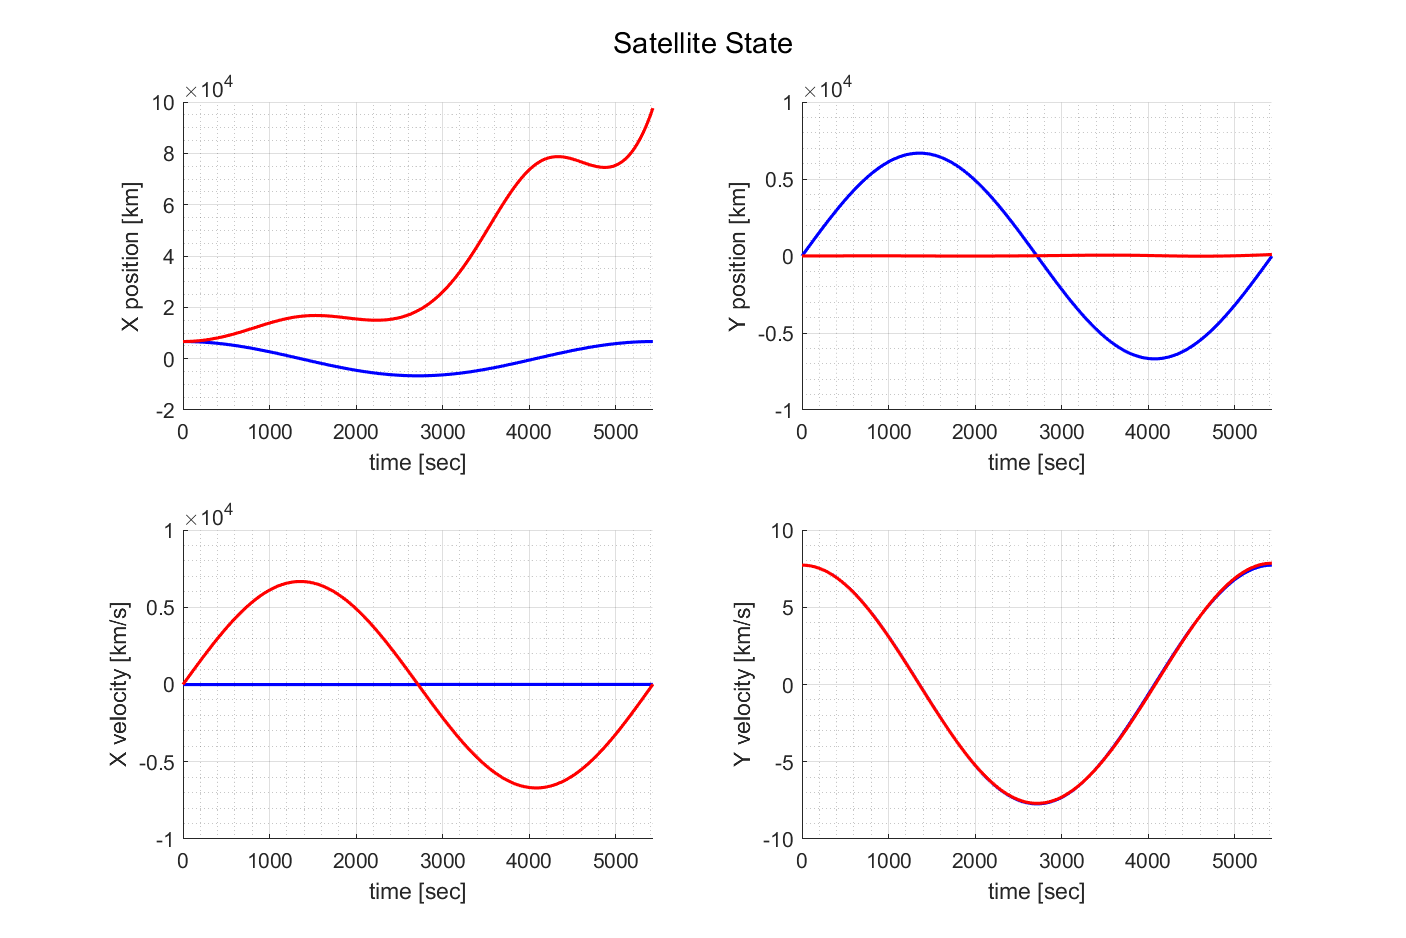
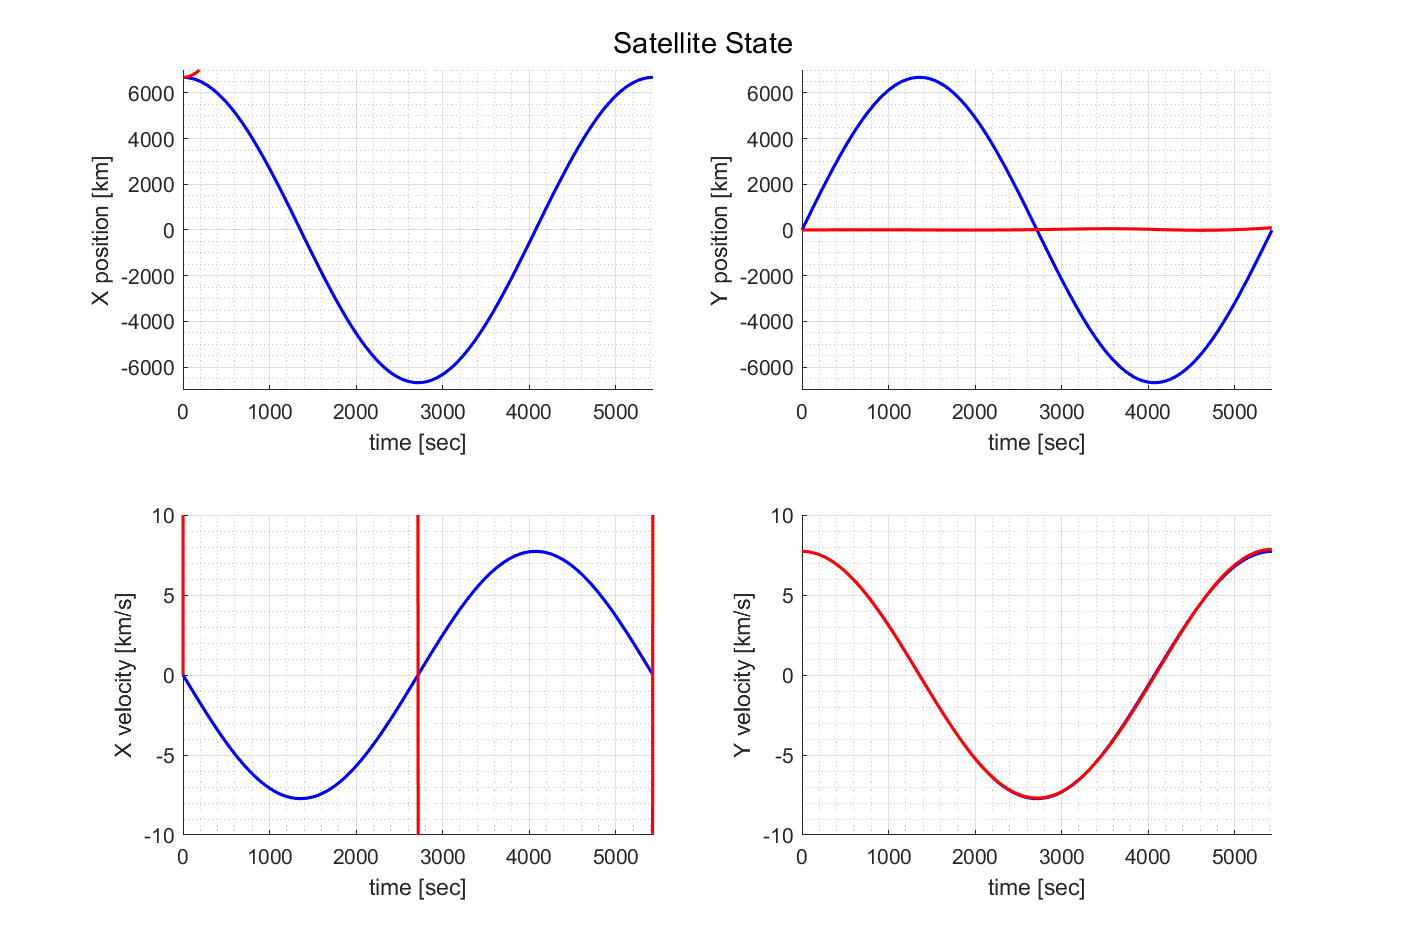
Update plot views

diff --git a/ASEN5044_HW8_problem2.m b/ASEN5044_HW8_problem2.m
@@ -74,6 +74,7 @@ sgtitle('Satellite State');
 subplot(2,2,1); hold on; grid on; grid minor;
 plot(T,S(:,1),'b-','LineWidth',1.5);
 plot(t_vec,x_sim(:,1),'r-','LineWidth',1.5);
+ylim([-7000 7000]);
 xlabel('time [sec]');
 ylabel('X position [km]');
 xlim([0 P]);
@@ -81,6 +82,7 @@ xlim([0 P]);
 subplot(2,2,2); hold on; grid on; grid minor;
 plot(T,S(:,2),'b-','LineWidth',1.5);
 plot(t_vec,x_sim(:,2),'r-','LineWidth',1.5);
+ylim([-7000 7000]);
 xlabel('time [sec]');
 ylabel('Y position [km]');
 xlim([0 P]);
@@ -88,6 +90,7 @@ xlim([0 P]);
 subplot(2,2,3); hold on; grid on; grid minor;
 plot(T,S(:,3),'b-','LineWidth',1.5);
 plot(t_vec,x_sim(:,3),'r-','LineWidth',1.5);
+ylim([-10 10]);
 xlabel('time [sec]');
 ylabel('X velocity [km/s]');
 xlim([0 P]);
@@ -95,6 +98,7 @@ xlim([0 P]);
 subplot(2,2,4); hold on; grid on; grid minor;
 plot(T,S(:,4),'b-','LineWidth',1.5);
 plot(t_vec,x_sim(:,4),'r-','LineWidth',1.5);
+ylim([-10 10]);
 xlabel('time [sec]');
 ylabel('Y velocity [km/s]');
 xlim([0 P]);
